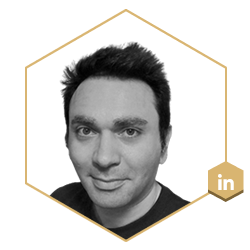
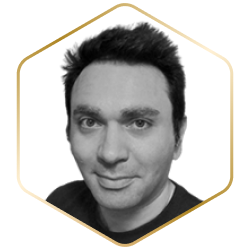
GitBook: [#82] Team Photo Update 1

diff --git a/introduction/overview/team.md b/introduction/overview/team.md
@@ -2,11 +2,11 @@
 
 ### Battle Tested, Resilient & Adaptive
 
-Over the last 3 years we have built highly skilled and experienced team to lead the next phase of growth for Ferrum Network.&#x20;
+Over the last 3 years**,** we have built a highly skilled and experienced team to lead the next phase of growth for Ferrum Network.&#x20;
 
 Ferrum Network was founded by a team of experts with a long-standing professional history in engineering and blockchain technology.
 
-![Naiem Yeganeh, Founder at Ferrum Network](../../.gitbook/assets/Naiem-Yeganeh-PHD.png)
+<figure><img src="../../.gitbook/assets/Naiem-Yeganeh-PHD.png" alt=""><figcaption><p>Naiem Yeganeh, Founder at <a href="https://ferrum.network/">Ferrum Network</a></p></figcaption></figure>
 
 ****[**Naiem Yeganeh**](https://www.linkedin.com/in/naiem-yeganeh-12874712/)**, Founder at Ferrum Network**
 
@@ -14,7 +14,7 @@ Naiem Yeganeh is a co-founder and CEO of Ferrum Network. He graduated from the U
 
 Naiem also founded Maad Afrooz Technology and has worked for the big tech companies Microsoft and Amazon. His last position before founding Ferrum Network was as core machine learning expert for Bloomberg LP.
 
-![Ian Friend, Co-Founder at Ferrum Network](../../.gitbook/assets/Ian-M.-Friend-ESQ.png)
+<figure><img src="../../.gitbook/assets/Ian-M.-Friend-ESQ (1).png" alt=""><figcaption><p>an Friend, Co-Founder at <a href="https://ferrum.network/">Ferrum Network</a></p></figcaption></figure>
 
 ****[**Ian Friend**](https://www.linkedin.com/in/ian-friend-bb949657/)**, Co-Founder at Ferrum Network**
 
@@ -24,9 +24,9 @@ Ian has served as a strategic advisor for a multitude of projects across Web3. S
 
 Over the years, Ian has grown Ferrum's reach, and impact to new heights. Ian helped launch Ferrum's staking business which now serves as the staking technology powering over 200 crypto projects. Ian successfully led the growth of this business to a lifetime TVL (Total Value Locked) of $500 million.
 
-Ian has also launched and successfully scaled the Ferrum Advisory Services (FAS) incubation division. Through this division, Ian and FAS have been instrumental in creating value of over $300 million in the space across metaverse, NFT, crosschain and other crypto projects.
+Ian has also launched and successfully scaled the Ferrum Advisory Services (FAS) incubation division. Through this division, Ian and FAS have been instrumental in creating value of over $300 million in the space across metaverse, NFT, crosschain**,** and other crypto projects.
 
-![Taha Abbasi, CTO at Ferrum Network](../../.gitbook/assets/Taha-Abbasi-COO-Ferrum-Network-Cross-Chain-Token-Bridge-Staking-Anti-bot-Incubation-Defi.png)
+<figure><img src="../../.gitbook/assets/Taha-Abbasi.png" alt=""><figcaption><p>Taha Abbasi, CTO at <a href="https://ferrum.network/">Ferrum Network</a></p></figcaption></figure>
 
 ****[**Taha Abbasi**](https://www.linkedin.com/in/tahaabbasi/)**, CTO at Ferrum Network**
 
